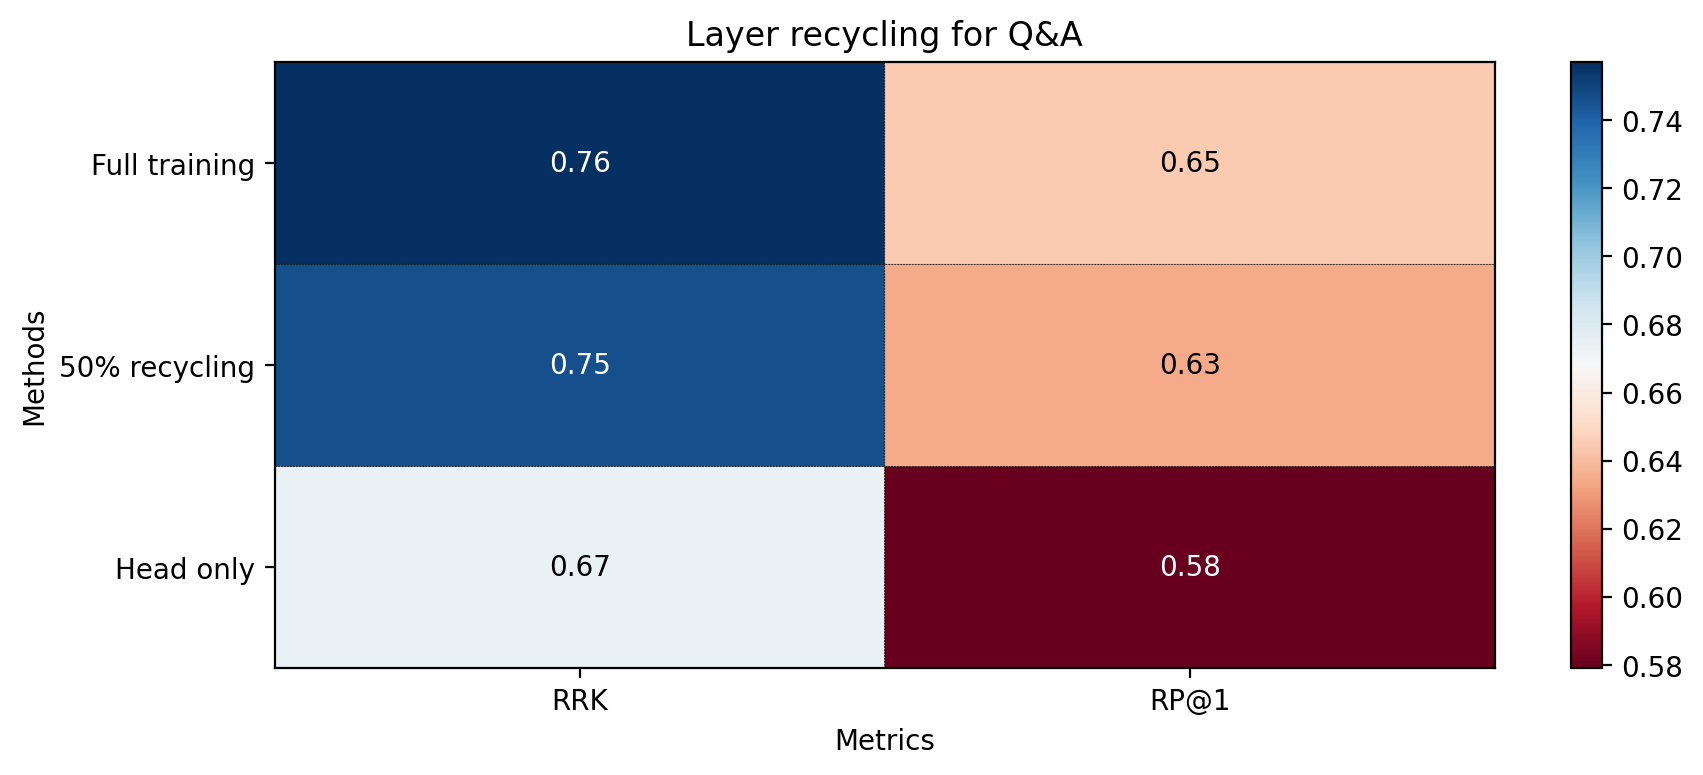
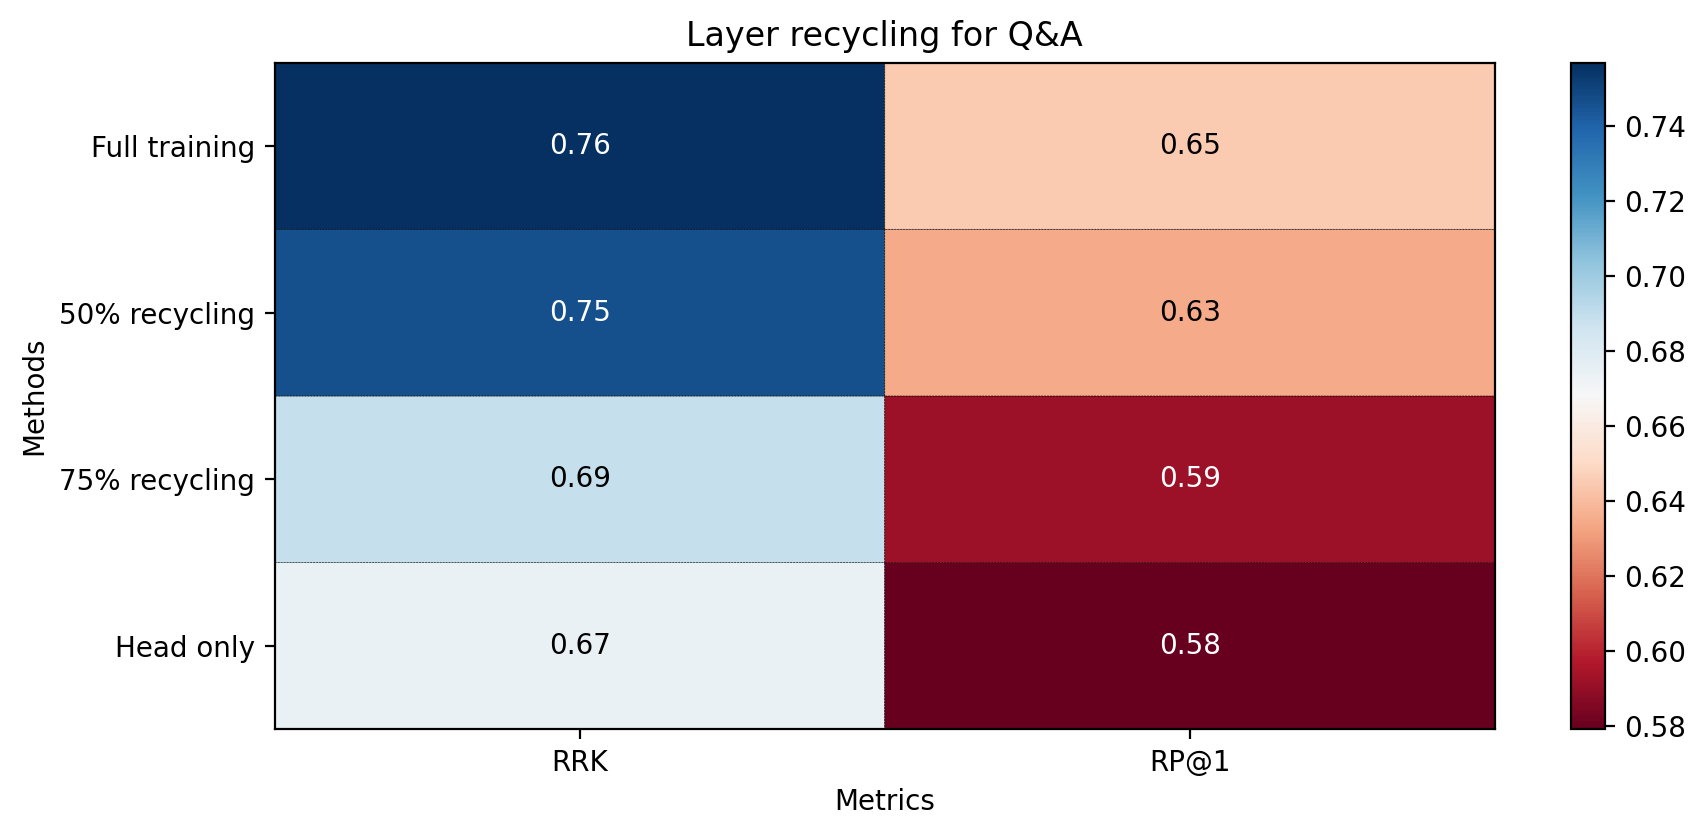
Fix reviews

diff --git a/qdrant-landing/content/articles/embedding-recycler.md b/qdrant-landing/content/articles/embedding-recycler.md
@@ -17,7 +17,7 @@ in the training and inference phases to achieve a speedup of ~83%
 with a negligible loss in model performance.
 This technique is quite similar to [the caching mechanism in Quaterion](https://quaterion.qdrant.tech/tutorials/cache_tutorial.html),
 but the latter is intended for any data modalities while the former focuses only on language models
-despite presenting inportant insights from their experiments.
+despite presenting important insights from their experiments.
 In this post, I will share our findings combined with those,
 hoping to provide the community with a wider perspective on layer recycling.
 
@@ -30,7 +30,7 @@ and use them as inputs to the unfrozen layers in future epochs.
 
 In the paper, they usually cache 50% of the layers, e.g., the output of the 6th multi-head self-attention block in a 12-block encoder.
 However, they find out that it does not work equally for all the tasks.
-For example, the question answering task suffers from a greater degradation in performance with 50% of the layers recycled,
+For example, the question answering task suffers from a more significant degradation in performance with 50% of the layers recycled,
 and they choose to lower it down to 25% for this task,
 so they suggest determining the level of caching based on the task at hand.
 they also note that caching provides a more considerable speedup for larger models and on lower-end machines.
@@ -38,9 +38,10 @@ they also note that caching provides a more considerable speedup for larger mode
 In layer recycling, the cache is hit for exactly the same object.
 It is easy to achieve this in textual data as it is easily hashable,
 but you may need more advanced tricks to generate keys for the cache
-when you want to generalize this technique to any other domain.
-Quaterion comes with an intelligent key extractor that may be applied any data type,
-but it is also allowed to customize it with a callable passed as as an argument.
+when you want to generalize this technique to diverse data types.
+For instance, hashing PyTorch tensors [does not work as you may expect](https://github.com/joblib/joblib/issues/1282).
+Quaterion comes with an intelligent key extractor that may be applied to any data type,
+but it is also allowed to customize it with a callable passed as an argument.
 Thanks to this flexibility, we were able to run a variety of experiments in different setups,
 and I believe that these findings will be helpful for your future projects.
 
@@ -88,7 +89,7 @@ class Model(TrainableModel):
     # ...
 ```
 
-This trick lets us finetune one more layers from the base model as a part of the `EncoderHead`
+This trick lets us finetune one more layer from the base model as a part of the `EncoderHead`
 while still benefiting from the speedup in the frozen `Encoder` provided by the cache.
 
 
@@ -126,7 +127,7 @@ while we can still improve over the baseline by training only `EncoderHead`.
 
 ## Experiment 3: Layer recycling in question answering
 We also wanted to test layer recycling in a different domain
-as one of the most important takeaways of the paper is the fact that
+as one of the most important takeaways of the paper is that
 the performance of layer recycling is task-dependent.
 To this end, we set up an experiment with the code from the [Question Answering with Similarity Learning tutorial](https://quaterion.qdrant.tech/tutorials/nlp_tutorial.html).
 
@@ -136,6 +137,8 @@ In this task, 50% layer recycling can still do a good job with only a small drop
 However, the level of degradation is smaller than that in the similar cars search example.
 This can be attributed to several factors such as the pretrained model quality, dataset size and task definition,
 and it can be the subject of a more elaborate and comprehensive research project.
+Another observation is that the performance of 75% layer recycling is closer to that of training only `EncoderHead`
+than 50% layer recycling.
 
 ## Conclusion
 We set up several experiments to test layer recycling under different constraints
